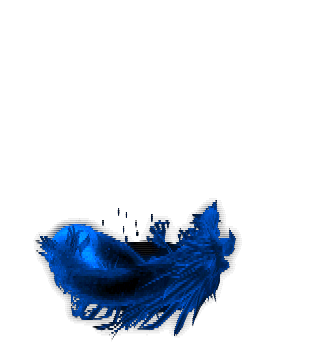
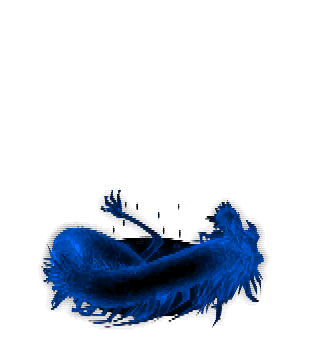
item completed

Changed region(s): [[0.1129, 0.5444, 0.8464, 0.9742]]

diff --git a/Classes/HelloWorldScene.cpp b/Classes/HelloWorldScene.cpp
@@ -362,11 +362,10 @@ void HelloWorld::attack2() {//player2的攻击
 		}
 		else if (attackWay2 == 3) {
 			playFireAttack(player2);
-			beingAttackedA = theMap->setColor(player1->getPosition(),skill3(theMap->tileCoordForPosition(player2->getPosition())), playerBColor3B);
+			beingAttackedA = theMap->setColor(player1->getPosition(),skill4(theMap->tileCoordForPosition(player2->getPosition())), playerBColor3B);
 		}
 		if (beingAttackedA)beingAttacked(player2, player1);
 	}
-
 }
 
 
@@ -726,7 +725,44 @@ std::vector<Vec2> HelloWorld::skill3(Vec2 input)
 	skillArea.push_back(input);
 	return skillArea;
 }
-
+std::vector<Vec2> HelloWorld::skill4(Vec2 input)
+{
+	std::vector<Vec2> skillArea;
+	Vec2 Direction1;
+	Vec2 Direction2;
+	Vec2 Direction3;
+	Vec2 Direction4;
+	if (player2Direction == 3) {
+		Direction1 = Vec2(input.x + 1, input.y);
+		Direction2 = Vec2(input.x + 2, input.y);
+		Direction3 = Vec2(input.x + 3, input.y);
+		Direction4 = Vec2(input.x + 4, input.y);
+	}
+	else if (player2Direction == 2) {
+		Direction1 = Vec2(input.x - 1, input.y);
+		Direction2 = Vec2(input.x - 2, input.y);
+		Direction3 = Vec2(input.x - 3, input.y);
+		Direction4 = Vec2(input.x - 4, input.y);
+	}
+	else if (player2Direction == 1) {
+		Direction1 = Vec2(input.x, input.y + 1);
+		Direction2 = Vec2(input.x, input.y + 2);
+		Direction3 = Vec2(input.x, input.y + 3);
+		Direction4 = Vec2(input.x, input.y + 4);
+	}
+	else if (player2Direction == 0) {
+		Direction1 = Vec2(input.x, input.y - 1);
+		Direction2 = Vec2(input.x, input.y - 2);
+		Direction3 = Vec2(input.x, input.y - 3);
+		Direction4 = Vec2(input.x, input.y - 4);
+	}
+	skillArea.push_back(Direction1);
+	skillArea.push_back(Direction2);
+	skillArea.push_back(Direction3);
+	skillArea.push_back(Direction4);
+	skillArea.push_back(input);
+	return skillArea;
+}
 
 void HelloWorld::loadWindAttack() 
 {
@@ -775,7 +811,7 @@ void HelloWorld::loadFireAttack()
 {
 	CocosDenshion::SimpleAudioEngine::getInstance()->preloadEffect("fire.mp3");
 	char frameName[100] = { 0 };
-	for (int i = 1; i <= 18; i++) {
+	for (int i = 1; i <= 12; i++) {
 		sprintf(frameName, "fire%02d.png", i);
 		SpriteFrame* pngNameSF = SpriteFrame::create(frameName, Rect(0, 0, 300, 300));
 		fireAnimation.pushBack(pngNameSF);
@@ -810,7 +846,7 @@ void HelloWorld::loadDargonAttack()
 {
 	CocosDenshion::SimpleAudioEngine::getInstance()->preloadEffect("dargon.wav");
 	char frameName[100] = { 0 };
-	for (int i = 1; i <= 19; i++) {
+	for (int i = 1; i <= 12; i++) {
 		sprintf(frameName, "dargon%02d.png", i);
 		SpriteFrame* pngNameSF = SpriteFrame::create(frameName, Rect(0, 0, 300, 300));
 		dargonAnimation.pushBack(pngNameSF);

diff --git a/Classes/HelloWorldScene.h b/Classes/HelloWorldScene.h
@@ -64,6 +64,7 @@ private:
 	std::vector<Vec2> skill1(Vec2 temp);
 	std::vector<Vec2> skill2(Vec2 temp);
 	std::vector<Vec2> skill3(Vec2 temp);
+	std::vector<Vec2> skill4(Vec2 temp);
 	Playground * theMap;
 
 
